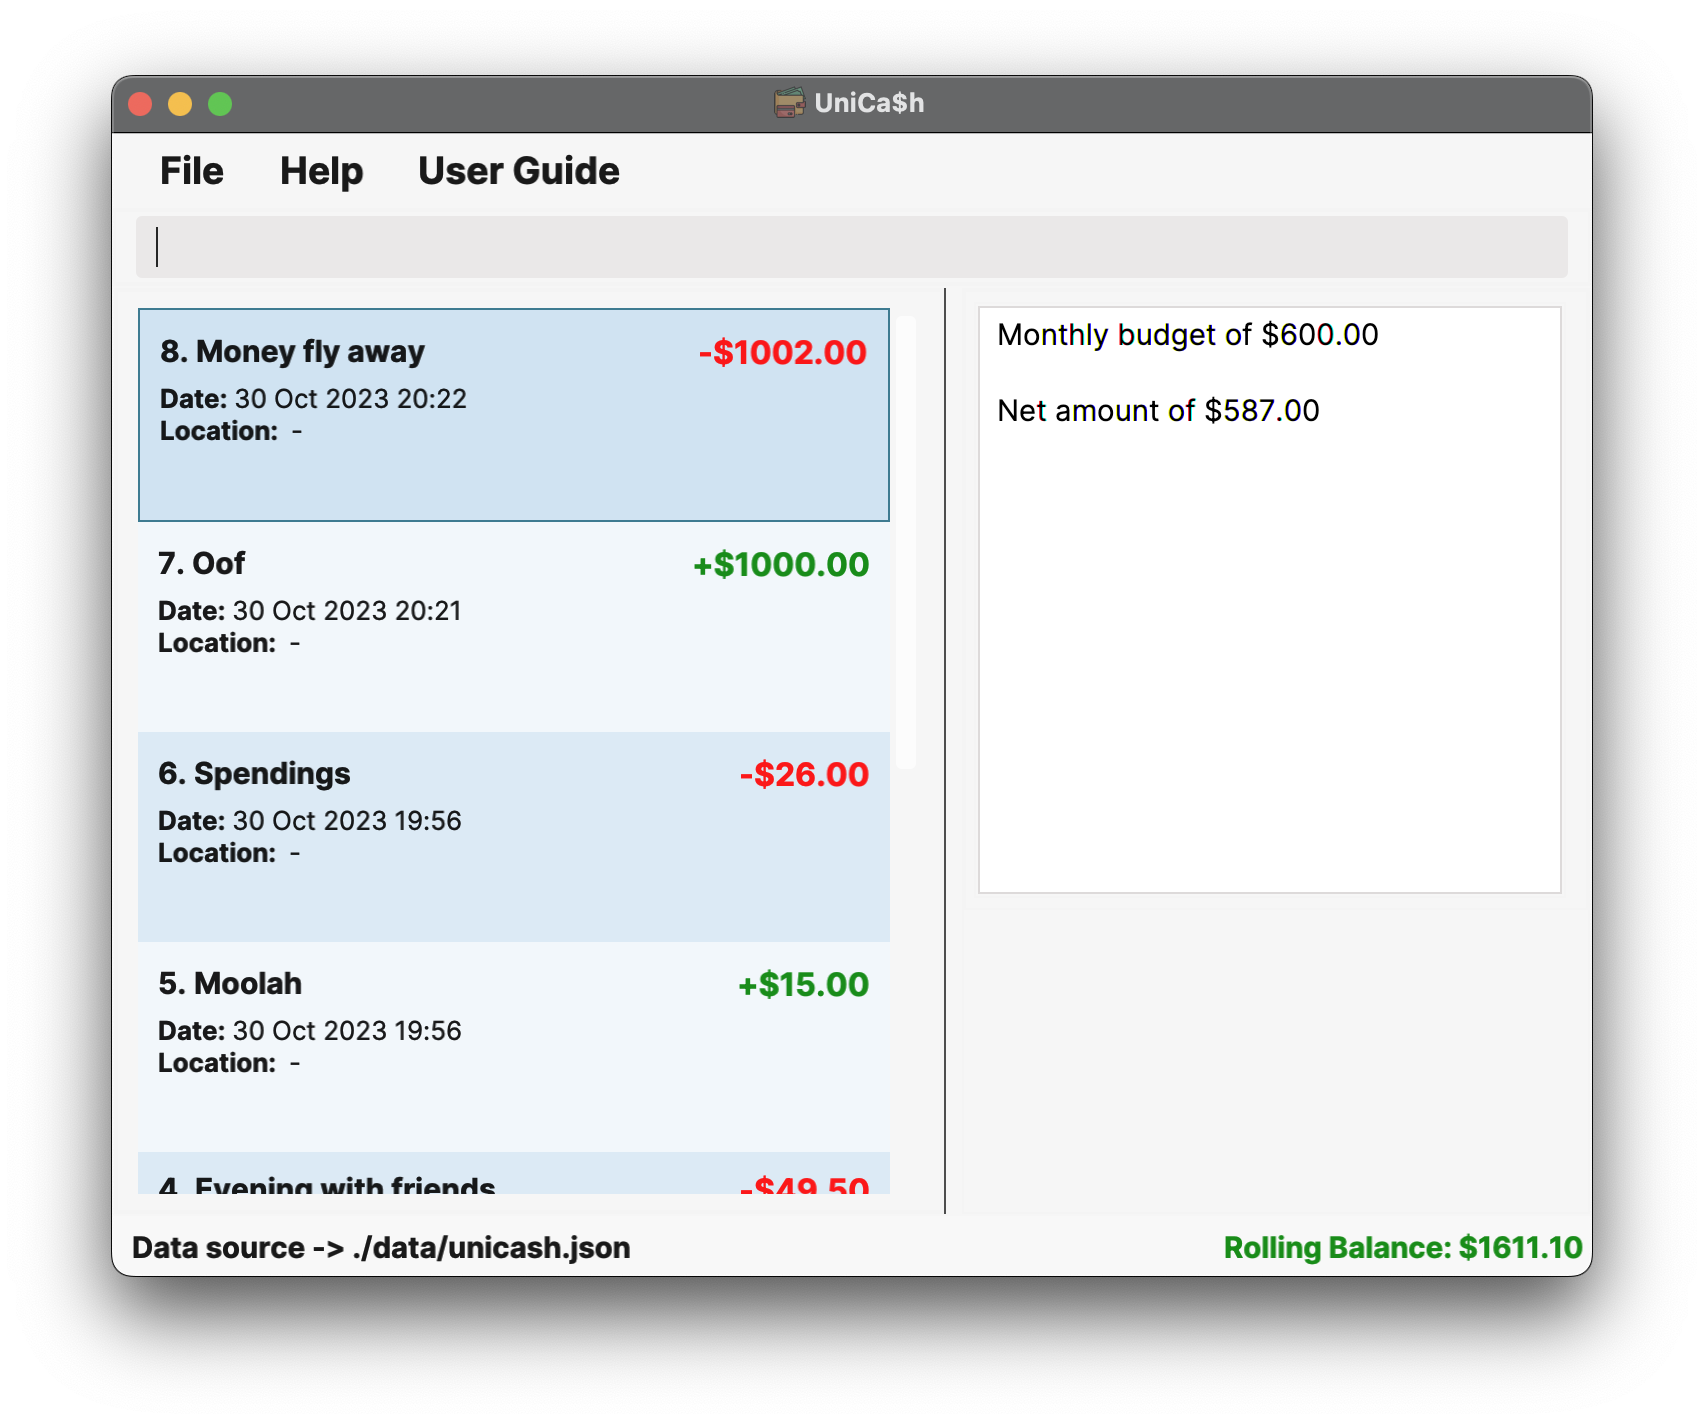
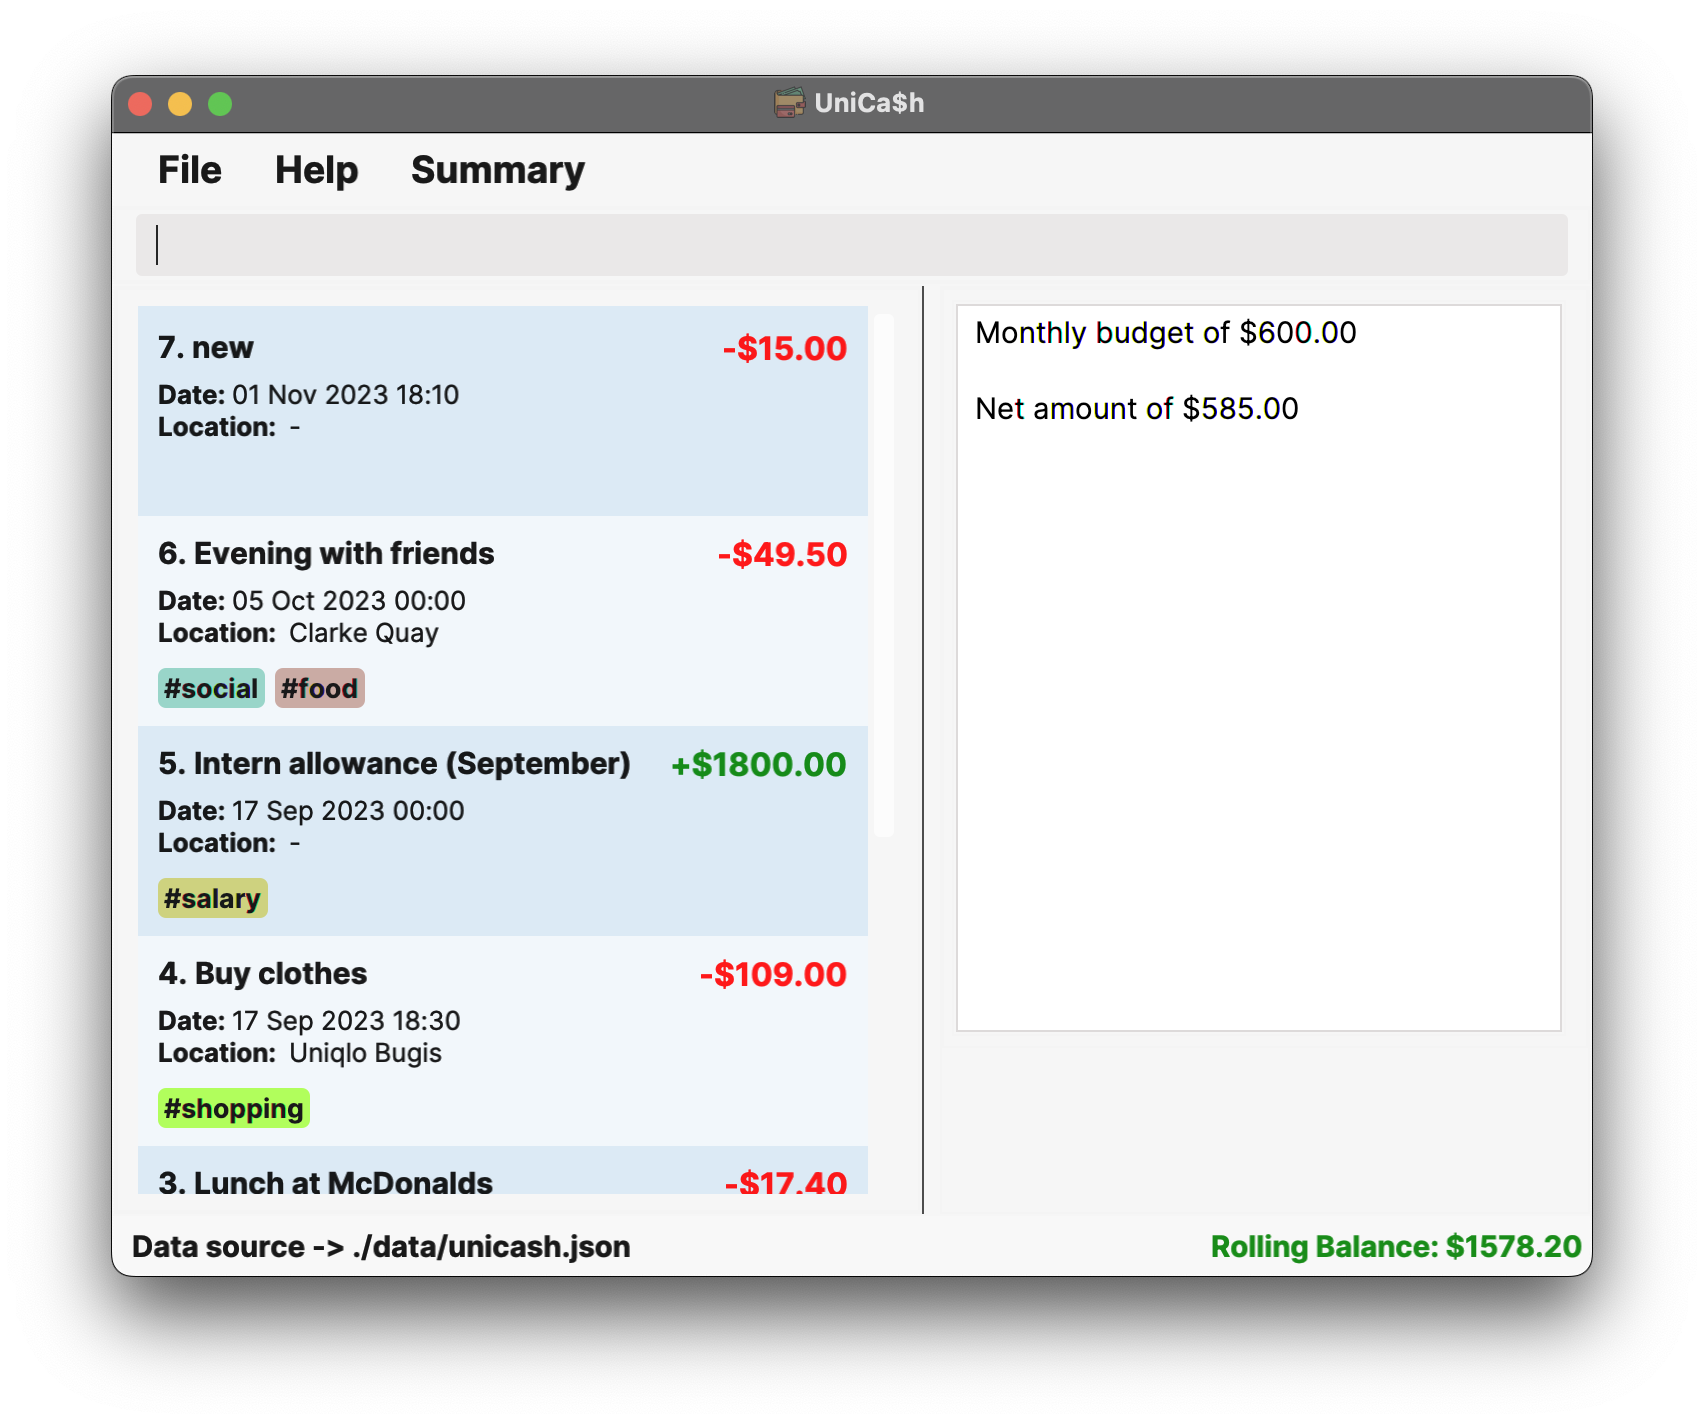
Fix GetBudget UG entry

diff --git a/docs/UserGuide.md b/docs/UserGuide.md
@@ -1193,8 +1193,6 @@ Important notes:
 The budget serves as a warning system to notify users when their expenses for the given interval exceeds their preset
 amount.
 
-The user's spending is calculated by: `budget + interval income - interval expenses`.
-
 > 💡 NOTE: For this team project, we have opted to simplify the budgeting feature by limiting the user to a single budget
 > at a time that can be configured for different intervals and amounts.
 
@@ -1215,7 +1213,8 @@ Important notes:
 
 1. `Amount` entered has to be positive for any `interval` value.
 2. `Amount` is automatically rounded to 2 decimal places.
-3. `Interval` must be of values "day", "week", or "month".
+3. `Amount` must be less than `2,147,483,647`.
+4. `Interval` must be of values "day", "week", or "month".
 
 ##### Successful Execution
 
@@ -1361,11 +1360,11 @@ Command Options: This command does not take in any arguments and will not proces
 #### 4.2.3 GetBudgetCommand
 
 Retrieves the set budget and the spending over the given interval. The usage is calculated from the list of filtered
-transactions so to view the budget remainder across all transactions, use the `list` command first.
+transactions so to view the budget remainder across expense transactions, use the `list` command first.
 
 If no budget has been set, the user will be prompted to set one first instead.
 
-The user's spending is calculated by: `budget + interval income - interval expenses`.
+The user's spending is calculated by: `budget - interval expenses`.
 
 Command: `get_budget`
 
@@ -1383,7 +1382,7 @@ Command Options: This command does not take in any arguments and will not proces
 > ```
 > Monthly budget of $600.00
 >
-> Net amount of $587.00
+> Net amount of $585.00
 > ```
 >
 > <img src="images/unicash/command-outputs/get-budget/getBudgetSuccess.png" width="1000" />
